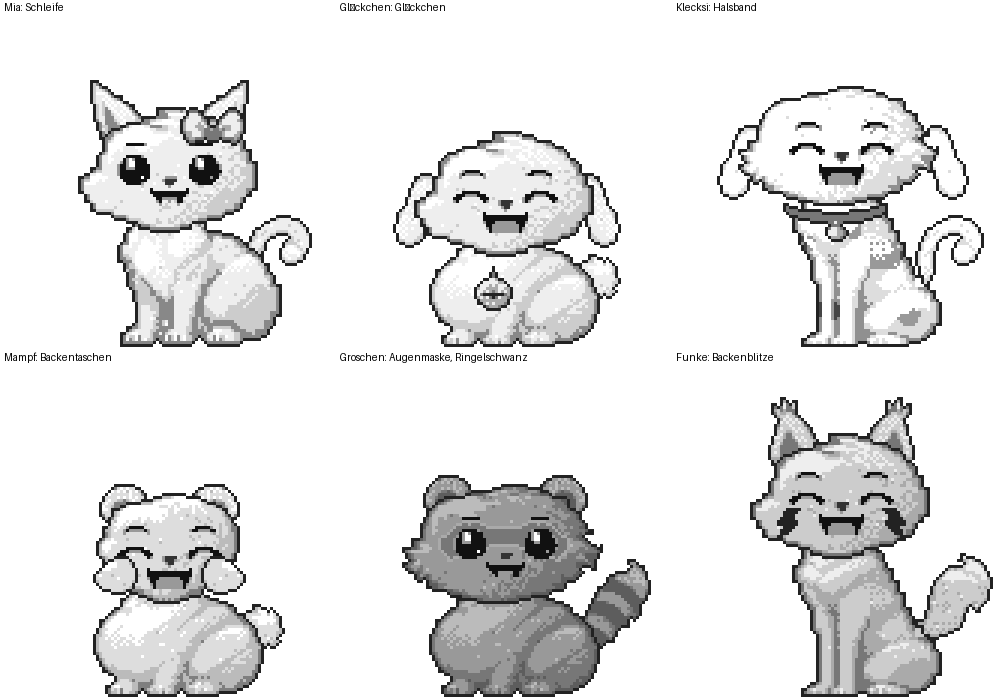
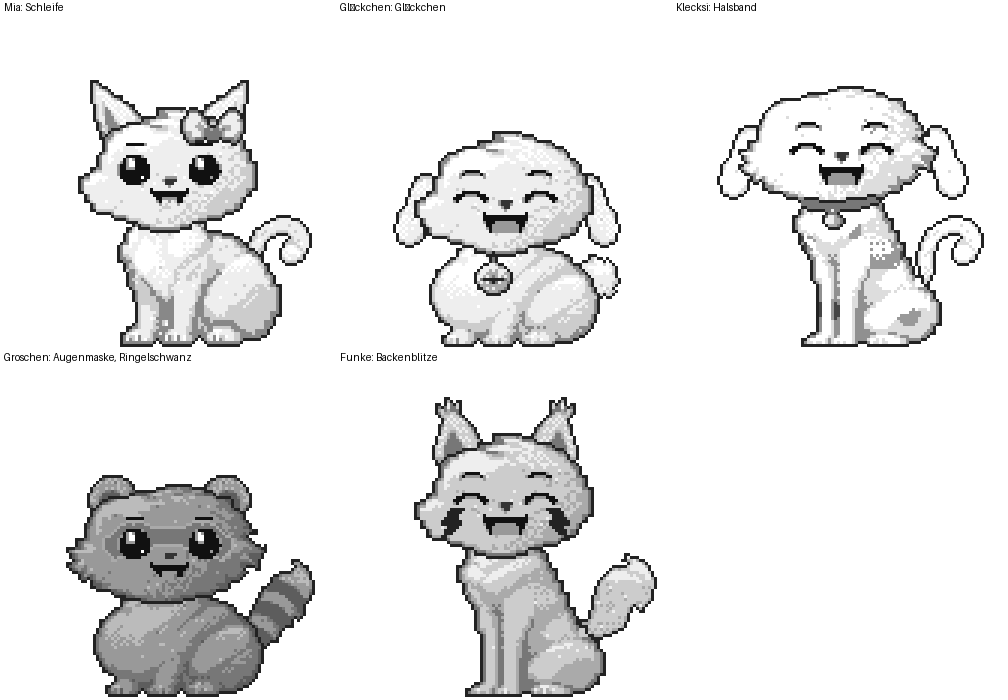
Bausatz: Backentaschen entfernt, Halsband am Halsrand beschnitten, Gloeckchen am Kinn
Claude-Session: https://claude.ai/code/session_01X43J6dzQtUUHUsjwp3UbdM

diff --git a/entwuerfe/bausatz-test/formen.py b/entwuerfe/bausatz-test/formen.py
@@ -122,13 +122,28 @@ def baue_form(koerper='sitzend', kopf='3-4', ohren='spitz', schwanz='buschig', g
         t = lade_teil('gesicht', gesicht)
         if t is not None:
             c.teil(t[0], t[1], (kx + hf['gesicht'][0] - khx, ky + hf['gesicht'][1] - khy), {34: 17, 119: 51, 170: 102, 204: 153, 238: 255})
-    if 'backentasche' in aufsaetze:
-        aufsatz('backentasche', (mx - 18, my + 5), rl=r)
-        aufsatz('backentasche', (W - 1 - (mx + 18), my + 5), spiegeln=True, rl=r)
     if 'backenblitz' in aufsaetze:
         aufsatz('backenblitz', (mx - 17, my + 6)); aufsatz('backenblitz', (W - 1 - (mx + 17), my + 6), spiegeln=True)
-    if 'halsband' in aufsaetze: aufsatz('halsband', (kx - 2, ky + 3))
-    if 'gloeckchen' in aufsaetze: aufsatz('gloeckchen', (kx - 4, ky + 5))
+    # Unterkante des Kopfes (Kinn) an einer Spalte der Leinwand
+    kraster2 = raster(datei('kopf', kopf))
+    def kinn(x):
+        sp = x - kx + khx
+        if 0 <= sp < kraster2.shape[1] and (kraster2[:, sp] != 255).any():
+            return ky + int(np.nonzero(kraster2[:, sp] != 255)[0].max()) - khy
+        return ky + 3
+    if 'halsband' in aufsaetze:
+        t = lade_teil('aufsatz', 'halsband')
+        if t is not None:
+            ra, (ax_, ay_) = t
+            ziel = (kx - 3, kinn(kx - 3) - 1)
+            ys3, xs3 = np.nonzero(ra != 255)
+            for y3, x3 in zip(ys3, xs3):
+                cx, cy = x3 - ax_ + ziel[0], y3 - ay_ + ziel[1]
+                # nur dort zeichnen, wo ein Körper (Hals, Schultern) ist: das Band endet am Halsrand
+                if 0 <= cx < W and 0 <= cy < H and maske[cy, cx]:
+                    c.g[cy, cx] = int(ra[y3, x3]); c.a[cy, cx] = True
+    if 'gloeckchen' in aufsaetze:
+        aufsatz('gloeckchen', (kx - 4, kinn(kx - 4) - 1))      # hängt direkt am Kinn
     if 'schleife' in aufsaetze: aufsatz('schleife', (ohr_r[0] - 2, ohr_r[1] + 1))
     return c
 

diff --git a/entwuerfe/bausatz-test/basis3_layout.py b/entwuerfe/bausatz-test/basis3_layout.py
@@ -63,14 +63,12 @@ MERKMALE = {
 #   schleife:     rechtes Ohr, Ansatz = ohr_r + (-2, 1), vor dem Kopf
 #   gloeckchen:   unter dem Kinn, (kx - 4, ky + 5)
 #   halsband:     um den Hals, (kx - 2, ky + 3), nach dem Kopf
-#   backentasche: Wange, links (mx - 18, my + 5), rechts gespiegelt, vor dem Gesicht
 #   augenmaske:   über den Augen, (mx, my - 4), VOR dem Gesicht
 #   backenblitz:  Wange, links (mx - 17, my + 6), rechts gespiegelt
 AUFSAETZE = {
     'schleife':     dict(groesse=(24, 20), anker=(12, 16)),
     'gloeckchen':   dict(groesse=(16, 20), anker=(8, 2)),
     'halsband':     dict(groesse=(44, 14), anker=(22, 3)),
-    'backentasche': dict(groesse=(24, 24), anker=(12, 12)),
     'augenmaske':   dict(groesse=(52, 16), anker=(26, 8)),
     'backenblitz':  dict(groesse=(12, 14), anker=(6, 7)),
 }

diff --git a/entwuerfe/bausatz-test/aufsaetze.py b/entwuerfe/bausatz-test/aufsaetze.py
@@ -8,7 +8,6 @@ F = [  # Name, Körper, Kopf, Ohren, Schwanz, Gesicht, Fell, Muster, Aufsätze
  ('Mia: Schleife', 'sitzend', '3-4', 'spitz', 'duenn', 'freundlich', 238, None, ('schleife',)),
  ('Glöckchen: Glöckchen', 'rundlich', '3-4', 'haengend', 'puschel', 'lachend', 238, None, ('gloeckchen',)),
  ('Klecksi: Halsband', 'schlank', 'breit', 'haengend', 'duenn', 'lachend', 255, 'flecken', ('halsband',)),
- ('Mampf: Backentaschen', 'rundlich', 'klein-rund', 'rund', 'puschel', 'lachend', 221, None, ('backentasche',)),
  ('Groschen: Augenmaske, Ringelschwanz', 'rundlich', 'breit', 'rund', 'geringelt', 'freundlich', 153, None, ('augenmaske',)),
  ('Funke: Backenblitze', 'schlank', '3-4', 'buschel', 'buschig', 'lachend', 204, None, ('backenblitz',)),
 ]

diff --git a/entwuerfe/bausatz-test/schablonen_basis.py b/entwuerfe/bausatz-test/schablonen_basis.py
@@ -67,7 +67,6 @@ AUFSAETZE = {  # Name: (Raster, Ansatz, Beschriftung, Hilfsform)
     'schleife':     ((24, 20), (12, 16), 'Schleife 24x20', None),
     'gloeckchen':   ((16, 20), (8, 2),   'Gloeckchen 16x20', None),
     'halsband':     ((44, 14), (22, 3),  'Halsband 44x14', None),
-    'backentasche': ((24, 24), (12, 12), 'Backentasche 24x24 (linke Wange)', None),
     'augenmaske':   ((52, 16), (26, 8),  'Augenmaske 52x16', [('linie', [(4, 8), (48, 8)], 'Augenlinie')]),
     'backenblitz':  ((12, 14), (6, 7),   'Backenblitz 12x14 (linke Wange)', None),
 }

diff --git a/entwuerfe/bausatz-test/ki_teile.py b/entwuerfe/bausatz-test/ki_teile.py
@@ -34,7 +34,6 @@ SCHABLONEN = {
     'aufsatz-schleife': ((24, 20), (12, 16)),
     'aufsatz-gloeckchen': ((16, 20), (8, 2)),
     'aufsatz-halsband': ((44, 14), (22, 3)),
-    'aufsatz-backentasche': ((24, 24), (12, 12)),
     'aufsatz-augenmaske': ((52, 16), (26, 8)),
     'aufsatz-backenblitz': ((12, 14), (6, 7)),
     'aufsatz': ((24, 20), (12, 16)),

diff --git a/entwuerfe/bausatz-test/PROMPT-ki-aufsaetze.md b/entwuerfe/bausatz-test/PROMPT-ki-aufsaetze.md
@@ -1,6 +1,6 @@
 # Prompt für die Bild-KI: kleine Aufsätze (27. November 2026)
 
-Sechs kleine Teile, die auf Kopf oder Hals sitzen: **Schleife** (Mia), **Glöckchen** (Glöckchen), **Halsband** (Klecksi), **Backentaschen** (Mampf), **Augenmaske** (Groschen), **Backenblitze** (Funke). Dazu optional ein **geringelter Schwanz** (Groschen). Gleiche Methode wie [PROMPT-ki-teile.md](PROMPT-ki-teile.md): ein Teil allein auf der Schablone, feste Grauwerte, Skript setzt zusammen.
+Sechs kleine Teile, die auf Kopf oder Hals sitzen: **Schleife** (Mia), **Glöckchen** (Glöckchen), **Halsband** (Klecksi), **Augenmaske** (Groschen), **Backenblitze** (Funke). Dazu optional ein **geringelter Schwanz** (Groschen). Gleiche Methode wie [PROMPT-ki-teile.md](PROMPT-ki-teile.md): ein Teil allein auf der Schablone, feste Grauwerte, Skript setzt zusammen.
 
 ## Wo sie sitzen
 | Aufsatz | Lage | Ansatz im Teil | Wohin | Ebene |
@@ -8,7 +8,6 @@ Sechs kleine Teile, die auf Kopf oder Hals sitzen: **Schleife** (Mia), **Glöckc
 | Schleife | auf dem Kopf am rechten Ohr | Knoten unten Mitte (12, 16) | rechtes Ohr, leicht innen | vor dem Kopf |
 | Glöckchen | an einem Band unter dem Kinn | oben Mitte (8, 2) | unter dem Kinn, etwas links | vor dem Körper |
 | Halsband | schmales Band um den Hals mit Marke | oben Mitte (22, 3) | unter dem Kinn | nach dem Kopf |
-| Backentasche | dicke Backe, **linke** Seite (rechte wird gespiegelt) | Mitte (12, 12) | Wange | vor dem Kopf, hinter dem Gesicht |
 | Augenmaske | dunkle Fläche über beiden Augen | Mitte (26, 8) | über den Augen | **vor** dem Kopf, **hinter** dem Gesicht (die Augen liegen darüber) |
 | Backenblitz | kleiner Blitz, **linke** Wange (rechter wird gespiegelt) | Mitte (6, 7) | Wange | nach dem Gesicht |
 
@@ -20,7 +19,6 @@ Die Figur schaut leicht nach links (3/4).
 | Schleife | `aufsatz-schleife-<nr>.png` | 24 × 20 | 192 × 160 | `ki/schablone-aufsatz-schleife.png` |
 | Glöckchen | `aufsatz-gloeckchen-<nr>.png` | 16 × 20 | 128 × 160 | `…-gloeckchen.png` |
 | Halsband | `aufsatz-halsband-<nr>.png` | 44 × 14 | 352 × 112 | `…-halsband.png` |
-| Backentasche | `aufsatz-backentasche-<nr>.png` | 24 × 24 | 192 × 192 | `…-backentasche.png` |
 | Augenmaske | `aufsatz-augenmaske-<nr>.png` | 52 × 16 | 416 × 128 | `…-augenmaske.png` (blasse Linie = Augenhöhe, nicht zeichnen) |
 | Backenblitz | `aufsatz-backenblitz-<nr>.png` | 12 × 14 | 96 × 112 | `…-backenblitz.png` |
 | Schwanz geringelt | `schwanz-geringelt-<nr>.png` | 32 × 40 | 256 × 320 | `ki/schablone-schwanz.png` |
@@ -53,7 +51,6 @@ Style: match the attached style image in line weight and shading. The character 
 | Schleife | a cute bow (ribbon with two loops and a small knot in the middle), seen from the front, light cloth gray 238, knot 119; the knot center sits at the red cross | 192 x 160 |
 | Glöckchen | a small round bell (jingle bell) with a slit and a tiny loop at the top, hanging down from the red cross | 128 x 160 |
 | Halsband | a narrow collar band lying horizontally, slightly curved like it wraps around a neck, dark gray 119, with a small round tag or buckle in the middle (light gray 238); red cross at the top center | 352 x 112 |
-| Backentasche | the LEFT puffy cheek pouch of a hamster: a big round plump cheek bulge, fur gray 204 with soft shading and a few fur dots, round outline; center at the red cross | 192 x 192 |
 | Augenmaske | a raccoon-style dark eye mask: one wide dark band (gray 119) that covers both eye areas, with soft slightly pointed ends going outward and down; the area in the middle between the eyes is connected; center at the red cross | 416 x 128 |
 | Backenblitz | a small lightning-bolt mark for the LEFT cheek, dark gray 34, bold zigzag, 3 sprite pixels thick, readable at small size; center at the red cross | 96 x 112 |
 | Schwanz geringelt (Groschen) | a bushy raccoon tail with 3 to 4 dark rings (gray 119) across it and a light tip (238), seen from the side, rising up to the right, attachment on the left | 256 x 320 |
@@ -61,11 +58,11 @@ Style: match the attached style image in line weight and shading. The character 
 Je Teil **3 Varianten** erzeugen, die beste behalten.
 
 ## Ablage
-`ki/teile/aufsatz-<name>-<nr>.png` (zum Beispiel `aufsatz-schleife-1.png`), und `ki/teile/schwanz-geringelt-<nr>.png`. Backentasche und Backenblitz nur die **linke** Seite, ich spiegele die rechte.
+`ki/teile/aufsatz-<name>-<nr>.png` (zum Beispiel `aufsatz-schleife-1.png`), und `ki/teile/schwanz-geringelt-<nr>.png`. Backenblitz nur die **linke** Seite, ich spiegele die rechte.
 
 ## Was danach passiert
 `formen.py` setzt die Aufsätze über den Parameter `aufsaetze` ein (Lage: `basis3_layout.py`, `AUFSAETZE`). Mit Platzhaltern habe ich die Lage schon geprüft; mit den echten Bildern prüfe ich sie noch einmal und passe die Position an. Dann kommt ein Prüfbogen mit Mia, Glöckchen, Klecksi, Mampf, Groschen und Funke.
 
 ## Grenzen
 - Die Aufsätze sind für die **sitzende** Haltung und den 3/4-Kopf eingestellt. Bei Köpfen mit anderer Größe (klein-rund, breit) sitzen sie je nach Kopf etwas anders; das stelle ich über die Position ein.
-- Backentaschen und Augenmaske überdecken Teile des Gesichts. Sie liegen deshalb **hinter** dem Gesicht (die Augen sind darüber).
+- Die Augenmaske überdeckt Teile des Gesichts. Sie liegen deshalb **hinter** dem Gesicht (die Augen sind darüber).

diff --git a/entwuerfe/bausatz-test/README.md b/entwuerfe/bausatz-test/README.md
@@ -54,3 +54,6 @@ Die Halskrause ist komplett raus (`ki/teile/kruse-flauschig-*`, Schablone und al
 
 ## Kleine Aufsätze eingebaut (27. November 2026)
 `ki/teile/aufsatz-*` und `schwanz-geringelt-3.png` sind eingebaut. `aufsaetze.py` → `pruefbogen-aufsaetze.png` (Mia Schleife, Glöckchen, Klecksi Halsband, Mampf Backentaschen, Groschen Augenmaske und Ringelschwanz, Funke Backenblitze). Lage in `basis3_layout.py` (`AUFSAETZE`) und `formen.py`; Backentaschen sitzen bei (Gesichtsmitte − 18, +5).
+
+## Aufsätze überarbeitet (27. November 2026)
+Die Backentaschen sind entfernt (Datei, Schablone, Code, Prompt). Das Halsband wird auf die Körperform beschnitten, endet also am Halsrand und steht nicht mehr über. Das Glöckchen hängt mit seiner Schnur direkt am Kinn (`kinn()` in `formen.py` bestimmt die Kinn-Höhe je Kopf).
